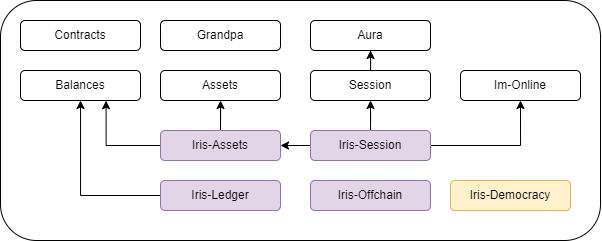
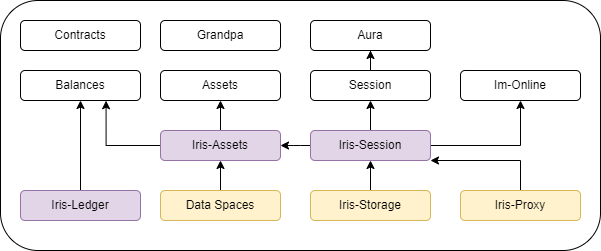
reorganize docs

diff --git a/src/Introduction.md b/src/Introduction.md
@@ -1,6 +1,6 @@
 # Introduction
 
-This is the official documentation for [Iris](https://github.com/ideal-labs/substrate/tree/iris).
+This is the official documentation for [Iris](https://github.com/ideal-lab5/substrate/tree/iris), developed and maintained by [ideal labs](https://idealabs.network).
 
 `This documentation and any information in it is subject to frequent and radical change as Iris is developed.`
 
@@ -10,11 +10,11 @@ Read our w3f grant proposal [here](https://github.com/w3f/Grants-Program/blob/ma
 
 ## What is Iris?
 
-Iris is a decentralized storage layer for Web 3.0. It is **infrastructure for the decentralized web**, providing a decentralized storage layer that can be leveraged by smart contracts and parachains, allowing access to content to be transferred across chains and monetized. It provides indexability, security, availability, and governance on top of IPFS, enabling data ownership, access management, and the commodification of latent storage capacity and content delivery. Built with IPFS and Substrate, Iris' dual network topology allows it to treat unique data as owned asset classes on the blockchain, while actual data is stored offchain in an IPFS network.
+Iris is a decentralized network that provides a secure data storage, delivery, and ownership layer for Web 3.0 applications. It is infrastructure for the decentralized web, providing a storage and data exchange which enables the transfer and monetization of access to and ownership of data across chains, smart contracts and participants in the network or connected through a relay chain. Iris provides security, availability, reputation, and governance on top of IPFS, enabling data ownership, access management, and the commodification of latent storage capacity and content delivery. It applies defi concepts to data, reputation, storage capacity and availability to synthesize computation and storage and to represent off-chain assets in an on-chain context. We build a cryptographically verifiable relationship between data storage, access and ownership.
 
 ## How does it work?
 
-Iris functions by embedding an IPFS node in the Substrate runtime, allowing us to encode the DHT status on-chain.
+Iris functions by embedding an IPFS node in the Substrate runtime, allowing us to encode the DHT status on-chain. This lets us enable a **cryptographically verifiable relationship** between data ownership, access, and availability.
 
 Owned data is treated as a unique asset class within the blockchain, while access to the data is controlled by an asset minted from the asset class. Accounts that hold a positive balance of an asset are authorized to access the underlying content that the asset class is associated with. Iris will also have the capability to transfer assets between parachains and smart contracts, enabling a novel way to access data across the web.
 
@@ -23,24 +23,33 @@ Owned data is treated as a unique asset class within the blockchain, while acces
 - **Ownership and Access via Assets**
   - Owned content in Iris is treated as a unique asset class
   - Access to content is synonymous with owning assets minted from the asset class. This allows us to easily transfer *access* to data across parachains and smart contracts.
-- **Decentralized Storage**
-  - validator nodes can opt-in to provide storage to the network. Currently, this is only semi-decentralized while we are a proof of authority network, however we intend to transition to proof of storage capacity in the future.
+- **Data Spaces**
+  - Data spaces act as unique, owned enclaves of data within the network. Any node can create their own data space, define who can associate their data with it, and further what kinds of data are allowed to exist within their space.
+- **Availability Encouraging Storage System**
+  - Iris uses an availability-encouraging storage system to maximize data aviailability without compromising the decentralized nature of the network
 - **smart contract support**
   - interact with the iris runtime through the [chain extension](./contracts_chain_extension.md)
+- **Secure**
+  - Iris uses a **threshold encryption** mechanism to secure your data.
+- **Social**
+  - Through an anonymous feedback and reputation system, data consumers can rate data owners, individual data, and data spaces.
 - **Transparent Governance**
   - In the future Iris will provide a robust governance framework that allows us to accomplish the same level of governance as major platform and service providers while maintaining decentralization and full transparency.
 
+For a full breakdown of where we are in the implementation of these features, take a look at our [roadmap](./quickstart/development_status.md).
+
 ## Vision
 
-Iris aims to be a general decentralized storage layer for web3 applications, specifically in the kusama/polkadot ecosystems. Iris enables parachains, smart contracts, and parathreads to benefit from secure decentralized storage by taking advantage of XCM to transfer assets between chains.
+Iris aims to be a general decentralized storage layer for web3 applications, specifically (but not limited to) in the dotsama ecosystem. Iris enables parachains, smart contracts, and parathreads to benefit from secure decentralized storage by taking advantage of XCM to transfer assets between chains.
 
-We envision that Iris can facilitate a new variety of dapps that leverage decentralized storage, represented as asset classes, in a cross-chain, cross contract environment, where Iris can act as a common storage layer.
+We envision that Iris can facilitate a new variety of dapps (that are currently too expensive or not readily feasible) that leverage decentralized storage, represented as asset classes, in a cross-chain, cross contract environment, where Iris acts as a common storage layer.
 
 The initial motivation of Iris is to solve the “streaming problem”: As the number of streaming services with exclusive rights to content increases, the actual content to which consumers have access diminishes due to the arbitrary cloistering of content. In a decentralized approach, individual content owners can retain ownership of their content while doing away with a subscription based model. However, Iris may facilitate a plethora of applications whose scope is far beyond streaming.
 
 ## Contact
 
 - twitter: https://twitter.com/ideal_labs
-- website: http://idealabs.network/
+- website: https://idealabs.network/
 - email: driemworks@idealabs.network
 - discord: https://discord.gg/w8PF9MM6
+- github: github.com/ideal-lab5

diff --git a/src/pallets/pallets_iris_assets.md b/src/pallets/pallets_iris_assets.md
@@ -1,14 +1,12 @@
 # Iris-Assets
 
-Please reference the documentation [here](TODO) for further details on extrinsics exposed by the module.
-
 The iris-assets module relies on the [assets module](https://github.com/paritytech/substrate/blob/master/frame/assets/README.md) available in Substrate. This pallet provides capabilities for content owners and content consumers. This module is entirely independent of IPFS. It provides capabilities to:
 
 - inject data into the network
-- create and manage storage asset classes
-- mint assets
+- create and manage data asset classes
+- mint, transfer, and destroy assets
 
-The iris-assets module delivers asset class and derived asset management. This module appends commands to a DataQueue which are processed by validator nodes (see the [iris-session](./pallets_iris_session.md) module for more info) in a module which implements logic for offchain workers to process commands in the DataQueue (in our case, the iris-session pallet).
+The iris-assets module delivers data asset class and data asset management. This module appends commands to a DataQueue which are processed by validator nodes (see the [iris-session](./pallets_iris_session.md) module for more info) in a module which implements logic for offchain workers to process commands in the DataQueue (in our case, the iris-session pallet).
 
 ## Runtime Details
 
@@ -33,13 +31,13 @@ Functions that allow offchain workers to submit results from IPFS commands
 
 ### RPC
 
-The iris-assets pallet contains the implementation of the RPC endpoint which fetches dat from the network. See more details [here](./rpc.md)
+The iris-assets pallet contains the implementation of the RPC endpoint which fetches dat from the network. See more details [here](./rpc.md). The current implementation of this RPC endpoint will change drastically as we enter the next phase of development.
 
 ### Data Ownership as Asset Class Ownership
 
 When a node adds data to Iris, the OCW that processes the request constructs a new asset class backed by some initial (user defined) amount of native currency. This results in a new `DataCommand` being added to the processing queue. When an OCW proceses the command and publishes results on chain, a new asset class is created. Asset creation and access is initiated in the iris-assets pallet but processed in the iris-session pallet.
 
-![data-ingestion](./resources/data_ingestion.drawio.png)
+![data-injection](../resources/data_injection.drawio.png)
 
 Our initial use case makes assumptions that we will break in the future:
 
@@ -48,8 +46,16 @@ Our initial use case makes assumptions that we will break in the future:
 
 ### Accessing Data Via Minted Assets
 
+*Disclaimer: The current approach that iris takes for retrieving data will undergo significant changes in the next phase of development.*
+
+#### The current approach
+
 To retrieve data, a node makes a request to Iris, adding a request to retrieve bytes to the queue. An OCW processes the command and adds the fetched content to local offchain storage. The node which requested the data can then invoke the `iris_retrieveBytes` RPC endpoint exposed on the node who fetched the content in order to retrieve it.
 
 First, a node that owns some positive balance of an asset requests access to it. When this request is processed by the calling node's OCW, the OCW stores the data in offchain storage. When the RPC endpoint is invoked, the data is returned to the authorized caller in the response.
 
-![data-ejection part 1](./resources/data_ejection_p1.drawio.png)
+#### The next-phase approach
+
+In the next phase of development, we will use the [offchain client](../quickstart/offchain_client.md) to retrieve data from the network, where a proxy node will stream the data to an authorized user. Additionally, composable access rules will be executed each time a node requests data from the network.
+
+![data-ejection](../resources/data_ejection.drawio.png)

diff --git a/src/quickstart/development_status.md b/src/quickstart/development_status.md
@@ -1,0 +1,48 @@
+# Development Status
+
+We plan to approach development over four distinct phase in order to iteratively implement Iris.
+
+
+## Roadmap
+
+![roadmap](../resources/roadmap.png)
+
+## Phases
+
+Here we detail the phases and explain where we currently are. The final intended state is as outline in our whitepaper draft, available at: [www.idealabs.network/docs](https://www.idealabs.network/docs)
+
+### Phase 0
+
+**COMPLETE**
+
+Phase 0 delivered the basis of the iris blockchain, as detailed in the original [Iris grant proposal](https://github.com/w3f/Grants-Program/blob/master/applications/iris.md). Specifically, it delivered the mechanism for creating a cryptographic relationship between ownership, storage, and access. In a way, this can be thought of as a semi-decentralized (since it is a PoA network) IPFS pinnings service with an ownerhsip layer built on top of it. Further, this initial phase delivered the ability to use smart contracts to interact with the Iris runtime (via a chain extension). For more in depth details ,see the grant proposal. This phase also delivered a simple react-based user interface built on top of polkadotjs.
+
+### Phase 1
+
+**IN PROGRESS**
+
+We intend to complete this phase by Q3 2022.
+
+This phase, which is currently undergoing review by the w3f grants team, builds on the initial phase to set Iris up for long term success.
+
+The intention of this phase is to implement several features that enable Iris to be a secure, social, and highly-available storage network without compromising decentralization. In our system, data owners associate their data with any number of 'data spaces' which each have specific rule sets and inclusion policies. We also lay the foundations for our encryption scheme (we will use a threshold encryption mechanism, though the implementation of this is out of scope for this proposal) by introducing the concept of the proxy node which will act as the linchpin for re-encryption in the future, as well as allows data owners and data consumers to run light clients (as they no longer are required to run the full node and add data to the embedded IPFS node). We also introduce a game-theoretic framework for ensuring replication and availability of data within the storage layer of Iris. Additionally we introduce "composable access rules", which allow data owners to specify rules which are implicitly enforced when consumers access their data. Lastly, we will build a javascript SDK to allow user interfaces for dapps built on Iris to easily build applications and interface with Iris.
+
+To summarize, in the following we propose:
+
+
+- the introduction of "data spaces"
+- the implementation of "composable access rules" to apply custom business logic to data
+- the introduction of "proxy nodes" that enable threshold encryption within the network
+- the implementation of an availability-encouraging storage system
+- a javascript SDK to allow dapp developers to easily build front ends for smart contracts on Iris, iris.js
+
+### Phase 2
+
+Phase 2 will enable:
+
+- threshold encryption
+- anonymous repoutation system
+
+### Phase 3
+
+Phase 4 enables moderation and curation within Iris. We expect that we can go live prior to the completion of this phase.

diff --git a/src/quickstart/tech_overview.md b/src/quickstart/tech_overview.md
@@ -1,13 +1,10 @@
 # Technical Overview
 
-1. [Tech Stack](#tech-stack)
-3. [Runtime](#the-iris-runtime)
-
 ## Tech Stack
 
 ### IPFS
 
-Our integration with [rust-ipfs](https://github.com/rs-ipfs/rust-ipfs) is based on [prior work](https://rs-ipfs.github.io/offchain-ipfs-manual/introduction.html). The ideal-labs/substrate [offchain_ipfs_v3](https://github.com/ideal-labs/substrate/tree/offchain_ipfs_v3) branch maintained in sync with the latest substrate master.
+Our integration with [rust-ipfs](https://github.com/rs-ipfs/rust-ipfs) is based on [prior work](https://rs-ipfs.github.io/offchain-ipfs-manual/introduction.html). The basis of storage within Iris used [rust-ipfs](https://github.com/rs-ipfs/rust-ipfs) (please note: rust-ipfs itself is experimental).
 
 The ui we provide relies on a local IPFS instance to add data (iris does not). To add data through the UI you must first run an instance of IPFS locally (you don't need to run an IPFS if you want read only access).
 
@@ -21,9 +18,9 @@ We use react to build the user interface to interact with our node. We specifica
 
 ## The Iris Runtime
 
-Iris functions by embedding an IPFS node within the substrate runtime and allowing substrate nodes to form a private IPFS swarm. By building a blockchain layer on top of the embedded storage, we are able to track calls and responses to IPFS on chain, allowing nodes to be rewarded for storing and retrieving data.
+Iris functions by embedding an IPFS node within the substrate runtime and allowing validator nodes to form a private IPFS network. By building a blockchain layer on top of the embedded storage, we are able to track calls and responses to IPFS on chain, allowing nodes to be rewarded for storing and retrieving data. Additionally, this allows us to represent offchain storage using on chain assets and to build a cryptographic relationship between data storage, ownership, and access.
 
-The Iris runtime builds from exsiting modules within the Substrate runtime, specifically the session and assets modules. It is currently a proof of authority network. In general, the Iris-Assets module, which depends on the assets modules, provides data ingestion, and asset class management. The Iris-Session module enables session based storage for content owner, where storage is provided by network validators. Read more on the Iris-assets and Iris-Session modules [here](./pallets.md).
+The Iris runtime builds on exsiting modules within the Substrate runtime, specifically the session and assets modules. It is currently a proof of authority network. In general, the Iris-Assets module, which depends on the assets modules, provides data ingestion, and asset class management. The Iris-Session module enables session based storage for content owner, where storage is provided by network validators. Read more on the Iris-assets and Iris-Session modules [here](./pallets.md).
 
 ![runtime modules](./resources/runtime_modules.png)
 

diff --git a/src/pallets.md b/src/pallets.md
@@ -2,23 +2,36 @@
 
 Iris provides several new pallets on top of those available by default in Substrate.
 
-1. [Iris-Assets](./pallet_iris_assets.md)
-2. [Iris-Session](./pallet_iris_session.md)
-3. [Iris-Ledger](./pallet_iris_ledger.md)
-4. Iris Democracy: Planned
-5. Iris Treasury: Planned
+1. [Iris-Assets](./pallets/pallet_iris_assets.md)
+2. [Iris-Session](./pallets/pallet_iris_session.md)
+3. [Iris-Ledger](./pallets/pallet_iris_ledger.md)
+4. [Data Spaces](./pallets/pallets_data_spaces.md)
+5. Iris-Storage: In development
+6. Iris-Proxy: In development
 
 ![runtime modules](./resources/runtime_modules.png)
 *Completed and active modules are marked in purple, planned modules in yellow. Dependencies are represented as arrows*
 
+## Data Spaces
+
+The [Data Spaces](./pallets/pallets_data_spaces.md) pallet lets users define data spaces that data asset classes can be associated with.
+
 ## Iris Assets
 
-The [Iris-Assets](./pallet_iris_assets.md) pallet provides functionality for nodes to inject data into Iris, create and manage storage asset classes and to mint and burn assets.
+The [Iris-Assets](./pallets/pallet_iris_assets.md) pallet provides functionality for nodes to inject data into Iris, create and manage storage asset classes and to mint and burn assets.
 
 ## Iris Session
 
-The [Iris-Session](./pallet_iris_session.md) pallet provides session-based storage capabilities for network validators as well as enables ejecting data from the network. The iris-session palelt contains all functionality to interact with the embedded IPFS node. While a strict content-owner only node does not require the iris-session pallet, for both consumers and storage providers it is a necessity.
+The [Iris-Session](./pallets/pallet_iris_session.md) pallet provides session-based storage capabilities for network validators as well as enables ejecting data from the network. The iris-session palelt contains all functionality to interact with the embedded IPFS node. While a strict content-owner only node does not require the iris-session pallet, for both consumers and storage providers it is a necessity.
 
 ## Iris Ledger
 
-The [Iris-Ledger](./pallets_iris_ledger.md) pallet allows nodes to lock, unlock, and transfer native tokens.
+The [Iris-Ledger](./pallets/pallets_iris_ledger.md) pallet allows nodes to lock, unlock, and transfer native tokens.
+
+## Iris Storage
+
+A to-be-developed pallet which will enable the storage system.
+
+## Iris Proxy
+
+A to-be-developed pallet which will enable proxy node functionality.

diff --git a/src/quickstart/data_spaces.md b/src/quickstart/data_spaces.md
@@ -1,0 +1,20 @@
+# Data Spaces
+
+## What is a data space?
+
+A data space is a user created and owned 'space' that data can be associated with. Data spaces allows nodes to group together disparate data sets based on ownership of the data asset classes that the data is associated with. A data space allows the owner to specify which nodes are authorized to associate data with their space. Data spaces form the basis for moderation within the network.
+
+For example, a dapp developer may want all data added to iris that should be associated with their application to be both easily found within Iris and also subject to additional checks specific to their application, such as only allowing certain types of file extensions or moderating data in some specific way (more on this in the moderation and governance section). By creating their own data space, the owner can authorize users of their dapp to associate data with the space.
+
+## Creating a Data Space
+
+A data space is really an asset class mapped to a set of configuration items.
+
+## Granting access
+
+To grant access to your data space to another address in the network, mint new assets from the asset class and assign them to the given address. This can be done in several different ways with varying degress of control over how the holder of the asset can associate their own data assets the data space. In general, either the owner of the asset class can:
+
+- lock transfers of the asset, meaning the holder cannot transfer it to any other accounts
+- retain rights to revoke the asset, meaning the data space administrator can block previously authorized users
+
+![data spaces](../../resources/data_spaces.png)

diff --git a/src/SUMMARY.md b/src/SUMMARY.md
@@ -1,15 +1,23 @@
 # Summary
 
 - [Introduction](./introduction.md)
-- [Getting Started](./getting_started.md)
-- [Technical Overview](./tech_overview.md)
-- [Pallets](./pallets.md)
-  - [Iris-Assets](./pallets_iris_assets.md)
-  - [Iris-Session](./pallets_iris_session.md)
-  - [Iris-Ledger](./pallets_iris_ledger.md)
-- [RPC Endpoint Implementation](./rpc.md)
-- [Contracts](./contracts.md)
-  - [Chain Extension](./contracts_chain_extension.md)
-  - [Iris Asset Exchange](./contracts_asset_exchange.md)
-- [Governance and Moderation](./governance_moderation.md)
+- [Quickstart](./quickstart.md)
+  - [Technical Overview](./quickstart/tech_overview.md)
+  - [Development Status](./quickstart/development_status.md)
+  - [Getting Started](./quickstart/getting_started.md)
+  - [Data Spaces](./quickstart/data_spaces.md)
+  - [Adding and Retrieving Data](./quickstart/data_assets.md)
+  - [Storage Nodes](./quickstart/storage.md)
+  - [Proxy Nodes](./quickstart/proxy.md)
+  - [Governance and Moderation](./quickstart/governance_moderation.md)
+- [Developers](./developers.md)
+  - [Pallets](./pallets.md)
+    - [Iris-Assets](./pallets_iris_assets.md)
+    - [Iris-Session](./pallets_iris_session.md)
+    - [Iris-Ledger](./pallets_iris_ledger.md)
+    - [Data-Spaces](./pallets_data_spaces.md)
+  - [RPC Endpoint Implementation](./rpc.md)
+  - [Contracts](./contracts.md)
+    - [Chain Extension](./contracts_chain_extension.md)
+    - [Iris Asset Exchange](./contracts_asset_exchange.md)
 - [Glossary](./glossary.md)

diff --git a/src/quickstart/proxy.md b/src/quickstart/proxy.md
@@ -1,0 +1,18 @@
+# Proxy
+
+Proxy nodes form the basis for ingestion and ejection of data from the Iris network. The act both as a gateway, which proxies calls to IPFS for data owners and data consumers, as well as power the threshold encryption that will be added to Iris in the future.
+
+![proxy overview](../../resources/proxy_overview.png)
+
+## Becoming a Proxy Node
+
+Becoming a proxy node functions similarly to becoming a validator node in a proof of stake consensus system. Additionally, proxy nodes must meet minimum hardware requirements. We enforce that they must both:
+
+- run an intel processor (6th gen or greater) so that they can use intel SGX (this could possibly not be needed)
+- have minimum bandwidth of 50 mbps up/down
+
+As proxy nodes ultimately determine the bandwidth of the network, we require 50mbps to ensure an acceptable minimum network bandwidth.
+
+## Proxy node rewards
+
+Each time a node requests data ingestion and ejection to the network they are charged an additional transaction fee which will be used to reward proxy nodes.

diff --git a/src/quickstart/data_assets.md b/src/quickstart/data_assets.md
@@ -1,0 +1,19 @@
+# Data Assets
+
+Data assets form the core cryptographic relationship between data storage, access, and ownership.
+
+## Adding data and Creating Asset Classes
+
+To add data to the network, a data owner must first run the [offchain client](./offchain_client.md) and there must be at least one available [proxy node](./proxy.md). First, the desired data to be ingested is added to the offchain client. The data owner then invokes the `create` extrinsic from the [iris-assets](../pallets/pallets_iris_assets.md) pallet.
+
+### Adding Composable Access Rules
+
+TODO
+
+## Provisioning data access
+
+To provision access to data, an owner of a data asset class mints new assets from the asset class and distributes them to addresses who should be allowed access (this is the same approach used by granting access to [data spaces](./data_spaces.md)).
+
+## Retrieving data
+
+To retrieve data to the network, a data owner must first run the [offchain client](./offchain_client.md) and there must be at least one available [proxy node](./proxy.md).

diff --git a/src/quickstart/offchain_client.md b/src/quickstart/offchain_client.md
@@ -1,0 +1,11 @@
+# Offchain Client
+
+Each data owner and data consumer runs an instance of an offchain client locally. The client acts both as a file staging server and as a means to retrieve files from proxy nodes. The offchain client allows owners and consumers to fetch and injgest data into/from the network without having to run a full client. That is, it allows them to run a light client in the browser, which drastically increases the ease of use of Iris.
+
+## Data Ingestion
+
+The general idea is that data owners can place data within the offchain client to be fetched by proxy nodes when the data owners makes a request to ingest data into the network (and thereby creating a new data asset class).
+
+## Data Ejection
+
+The offchain client allows data consumers to receive data from proxy nodes when they request data from the network. Authorized users whose asset holdings pass the data asset classes composable access rules can accept connections from authorized proxy nodes to download data locally.

diff --git a/src/quickstart/storage.md b/src/quickstart/storage.md
@@ -1,0 +1,13 @@
+# Storage
+
+The Iris storage system is designed to promote a fully decentralized network by being both availability-encouraging as well as having a low barrier to entry.
+
+## The OBOL
+
+The OBOL is the token that powers the storage system in Iris. OBOL is minted on demand and is an on-chain representation of off-chain storage.
+
+## The storage system
+
+For a full mathematical breakdown of the storage system, please see section 4 of the [iris whitepaper](https://idealabs.network/docs).
+
+## Become a storage node

diff --git a/src/contracts/contracts_chain_extension.md b/src/contracts/contracts_chain_extension.md
@@ -8,8 +8,9 @@ The iris chain extension provides functionality for dapp developers to hook into
 
 See the [iris-assets](./pallets_iris_assets.md) for more details.
 
+- create
+- request bytes
 - mint
-
 - transfer_assets
 
 ## From the Iris-Ledger pallet
@@ -17,7 +18,6 @@ See the [iris-assets](./pallets_iris_assets.md) for more details.
 See the [iris-ledger](./pallets_iris_ledger.md) for more details.
 
 - lock_currency
-
 - unlock_and_transfer_currency
 
 ## Usage
